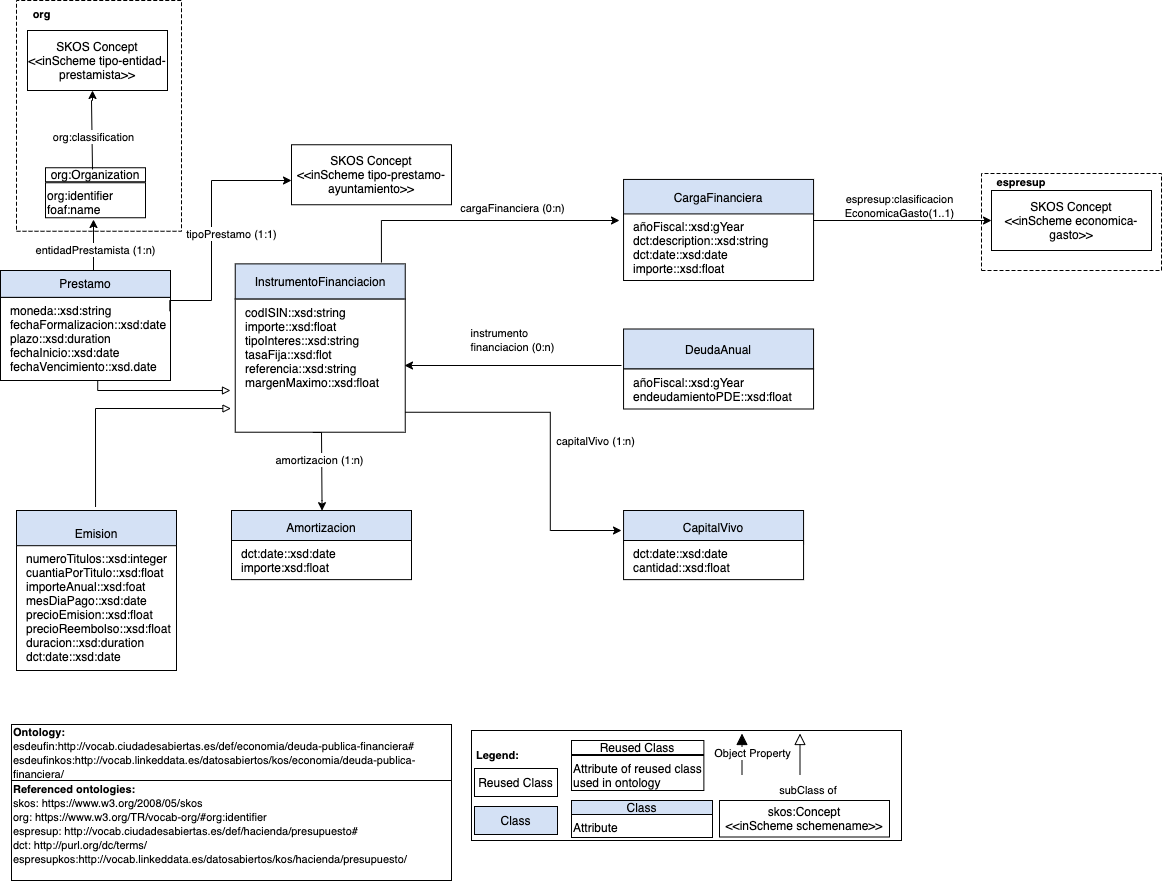
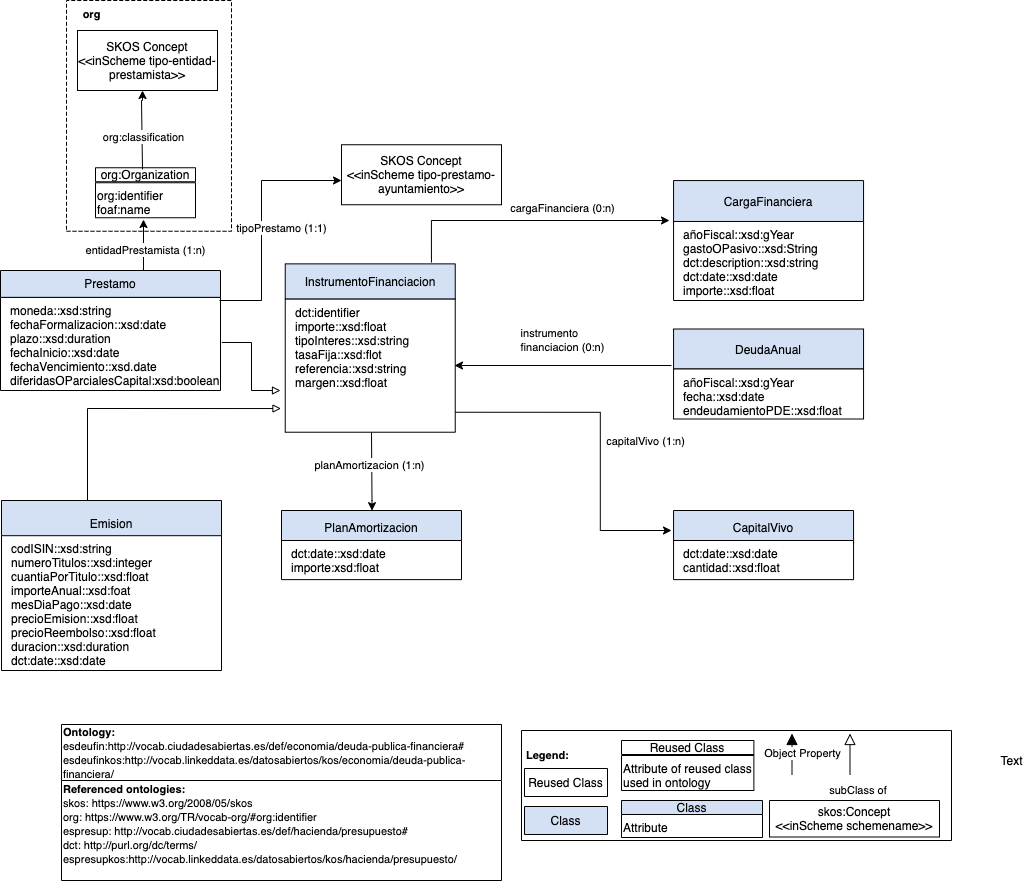
Actualizacion ontología y documentación
Eliminación de la clasificación presupuestaria y se añadió propiedad diferidasOParcialesCapital

diff --git a/OnToology/ontology/deudaPublicaFinanciera.owl/documentation/sections/description-es.html b/OnToology/ontology/deudaPublicaFinanciera.owl/documentation/sections/description-es.html
@@ -6,7 +6,7 @@
   <span class="markdown">
 En este vocabulario se tiene una clase que representa la deuda publica financiera anual [esdeufin:DeudaAnual](#DeudaAnual). Las propiedades se refieren al año fiscal y al total de la deuda por protocolo de dédicit excesivo (PDE). De esta manera se puede representar la deuda de varios años fiscales y así conocer la evolución de la deuda de un ayuntamiento.
       
-La deuda de un año fiscal se relaciona con uno o más [esdeufin:InstrumentoFinanciacion](#InstrumentoFinanciacion) a través de la propiedad [esdeufin:instrumentoFinanciacion](#instrumentoFinanciacion). Un instrumento de financiación tiene propiedades tales como el código, el tipo de interés, la tasa si el interés es fijo y la referencia y el margen máximo si el interés es variable. Un instrumento de financiación puede ser un [esdeufin:Prestamo](#Prestamo) o una [esdeufin:Emision](#Emision). Un préstamo es otorgado  por una entidad prestamista ([esdeufin:entidadPrestamista](#entidadPrestamista)), que se representa utilizando la clase [org:Organization](https://www.w3.org/TR/vocab-org/#org:Organization) de la ontología [Organization](https://www.w3.org/TR/vocab-org/). El préstamo puede ser de un cierto [esdeufin:tipoPrestamo](#tipoPrestamo) tal como bilateral, sindicado, etc y se representa mediante una taxonomía SKOS de [tipo-prestamo](http://vocab.linkeddata.es/datosabiertos/kos/economia/deuda-financiera/tipo-prestamo). La entidad prestamista puede ser de un cierto tipo tal como entidad financiera, diputación, etc. Para ello se ha reusado la propiedad [org:classification](http://www.w3.org/ns/org#Organization) de la ontología de organizaciones, la cual tiene como rango una taxonomia SKOS [tipo-entidad-prestamista](http://vocab.linkeddata.es/datosabiertos/kos/economia/deuda-financiera/tipo-entidad-prestamista). Un instrumento de financiación se relaciona a través de la propiedad [espresup:amortizacion](#amortizacion) con su calendario de amortizaciones que indica la fecha e importe de cada amortización. Un instrumento de financiación tiene un [esdeufin:CapitalVivo](#capitalVivo) que indica a una fecha determinada la cantidad por amortizar. Por último, cada instrumento de financiación tiene una carga financiera [esdeufin:CargaFinanciera](#CargaFinanciera) que a su vez corresponde mediante la propiedad [espresup:clasificacionEconomicaGasto](#http://vocab.ciudadesabiertas.es/def/hacienda/presupuesto#clasificacionEconomicaGasto)  a ciertos conceptos de pasivos financieros o gastos financieros de la clasificación económica de gasto del presupuesto; esta clasificación ha sido representado mediante un SKOS que se encuentra publicado como una clasificación [economica-gasto](http://vocab.linkeddata.es/datosabiertos/kos/hacienda/presupuesto/economica-gasto). 
+La deuda de un año fiscal se relaciona con uno o más [esdeufin:InstrumentoFinanciacion](#InstrumentoFinanciacion) a través de la propiedad [esdeufin:instrumentoFinanciacion](#instrumentoFinanciacion). Un instrumento de financiación tiene propiedades tales como el identificador, el tipo de interés, la tasa si el interés es fijo y la referencia y el margen  si el interés es variable. Un instrumento de financiación puede ser un [esdeufin:Prestamo](#Prestamo) o una [esdeufin:Emision](#Emision). Un préstamo es otorgado  por una o más entidades prestamistas ([esdeufin:entidadPrestamista](#entidadPrestamista)), que se representa utilizando la clase [org:Organization](https://www.w3.org/TR/vocab-org/#org:Organization) de la ontología [Organization](https://www.w3.org/TR/vocab-org/). El préstamo puede ser de un cierto [esdeufin:tipoPrestamo](#tipoPrestamo) tal como bilateral, sindicado, préstamo por algún fondo o una ayuda reintegrable. El tipo de préstamo se representa mediante una taxonomía SKOS de [tipo-prestamo](http://vocab.linkeddata.es/datosabiertos/kos/economia/deuda-financiera/tipo-prestamo). La entidad prestamista puede ser de un cierto tipo tal como entidad financiera, diputación, etc. Para ello se ha reusado la propiedad [org:classification](http://www.w3.org/ns/org#Organization) de la ontología de organizaciones, la cual tiene como rango una taxonomia SKOS [tipo-entidad-prestamista](http://vocab.linkeddata.es/datosabiertos/kos/economia/deuda-financiera/tipo-entidad-prestamista). Un instrumento de financiación se relaciona a través de la propiedad [espresup:planAmortizacion](#planAmortizacion) con su calendario de amortizaciones que indica la fecha e importe de cada amortización. Un instrumento de financiación tiene un [esdeufin:CapitalVivo](#capitalVivo) que indica a una fecha determinada el importe por amortizar. Por último, cada instrumento de financiación puede tener una carga financiera en un año fiscal,[esdeufin:CargaFinanciera](#CargaFinanciera), que puede ser un gasto financiero o un activo financiero. 
 </span>
 
 <h3>3.1 Ejemplos de uso<span class="backlink"> volver a <a href="#toc">&iacute;ndice</a></span></h3>
@@ -29,54 +29,55 @@ La deuda de un año fiscal se relaciona con uno o más [esdeufin:InstrumentoFina
   <pre>
     &lt;http://vocab.ciudadesabiertas.es/recurso/economia/deuda-financiera/prestamo/es1234567893&gt; 
         a esdeufin:Prestamo, esdeufin:InstrumentoFinanciacion;
-        esdeufin:codISIN "ES1234567893"^^xsd:string ;
+        dct:identifier "ES1234567893"^^xsd:string ;
         esdeufin:importe "102000000.00"^^xsd:float ;
         esdeufin:tipoInteres "variable"^^xsd:string ;
         esdeufin:referencia "Euribor 1/3/6 meses"^^xsd:string ;
-        esdeufin:margenMaximo "0.015"^^xsd:float ;
+        esdeufin:margen "0.015"^^xsd:float ;
         esdeufin:moneda "euro"^^xsd:string ;
         esdeufin:fechaFormalizacion "2006-12-14"^^xsd:date ;
         esdeufin:plazo "P16Y"^^xsd:duration ;
+        esdeufin:diferidasOParcialesCapital "false"^^xsd:boolean;
         esdeuFin:fechaVencimiento "2022-12-14"^^xsd:date ;
         esdeufin:tipoPrestamo &lt;http://vocab.linkeddata.es/datosabiertos/kos/economia/deuda-publica/tipo-prestamo/bilateral&gt;;
         esdeufin:entidadPrestamista &lt;http://vocab.ciudadesabiertas.es/recurso/economia/deuda-financiera/entidad-prestamista/q2876002c&gt;;
-        esdeufin:amortizacion &lt;http://vocab.ciudadesabiertas.es/recurso/economia/deuda-financiera/amortizacion/ES1234567893-c1&gt;;
-        esdeufin:amortizacion &lt;http://vocab.ciudadesabiertas.es/recurso/economia/deuda-financiera/amortizacion/ES1234567893-c2&gt;;
-        esdeufin:amortizacion &lt;http://vocab.ciudadesabiertas.es/recurso/economia/deuda-financiera/amortizacion/ES1234567893-c3&gt;.
+        esdeufin:planAmortizacion &lt;http://vocab.ciudadesabiertas.es/recurso/economia/deuda-financiera/plan-amortizacion/es1234567893-c1&gt;;
+        esdeufin:planAmortizacion &lt;http://vocab.ciudadesabiertas.es/recurso/economia/deuda-financiera/plan-amortizacion/es1234567893-c2&gt;;
+        esdeufin:planAmortizacion &lt;http://vocab.ciudadesabiertas.es/recurso/economia/deuda-financiera/plan-amortizacion/es1234567893-c3&gt;.
         
-    &lt;http://vocab.ciudadesabiertas.es/recurso/economia/deuda-financiera/amortizacion/ES1234567893-c1&gt;
-        a esdeufin:Amortizacion;
+    &lt;http://vocab.ciudadesabiertas.es/recurso/economia/deuda-financiera/amortizacion/es1234567893-c1&gt;
+        a esdeufin:PlanAmortizacion;
         dct:date "2016-12-14"^^xsd:date ;
         esdeufin:importe "39000000.00^^xsd:float.
-    &lt;http://vocab.ciudadesabiertas.es/recurso/economia/deuda-financiera/amortizacion/ES1234567893-c2&gt;
-        a esdeufin:Amortizacion;
+    &lt;http://vocab.ciudadesabiertas.es/recurso/economia/deuda-financiera/amortizacion/es1234567893-c2&gt;
+        a esdeufin:PlanAmortizacion;
         dct:date "2019-12-14"^^xsd:date ;
         esdeufin:importe "39000000.00^^xsd:float.
-    &lt;http://vocab.ciudadesabiertas.es/recurso/economia/deuda-financiera/amortizacion/ES1234567893-c3&gt;
-        a esdeufin:Amortizacion;
+    &lt;http://vocab.ciudadesabiertas.es/recurso/economia/deuda-financiera/amortizacion/es1234567893-c3&gt;
+        a esdeufin:PlanAmortizacion;
         dct:date "2022-12-14"^^xsd:date ;
         esdeufin:importe "24000000.00^^xsd:float.
   </pre>
 <span class="markdown">
-Para este préstamo se ejemplifica la carga financiera del año 2017 con dos pagos realizados ese año, corresponden al pago de intereses (concepto 310 de la clasificación económica de gasto). 
+Para este préstamo se ejemplifica dos gastos financieros del año 2017 que corresponden al pago de intereses. 
 </span>
 <pre>
     &lt;http://vocab.ciudadesabiertas.es/recurso/economia/deuda-financiera/prestamo/es1234567893&gt; 
-        esdeufin:cargaFinanciera &lt;http://vocab.ciudadesabiertas.es/recurso/economia/deuda-financiera/carga-financiera/2018-es1234567893-001&gt; ;
-        esdeufin:cargaFinanciera &lt;http://vocab.ciudadesabiertas.es/recurso/economia/deuda-financiera/carga-financiera/2018-es1234567893-002&gt; ;
+        esdeufin:cargaFinanciera &lt;http://vocab.ciudadesabiertas.es/recurso/economia/deuda-financiera/carga-financiera/2017-06-21-es1234567893&gt; ;
+        esdeufin:cargaFinanciera &lt;http://vocab.ciudadesabiertas.es/recurso/economia/deuda-financiera/carga-financiera/2017-12-21-es1234567893&gt; ;
         esdeufin:capitalVivo &lt;http://vocab.ciudadesabiertas.es/recurso/economia/deuda-financiera/capital-vivo/2020-06-30-es1234567893&gt; .
-    &lt;http://vocab.ciudadesabiertas.es/recurso/economia/deuda-financiera/carga-financiera/2018-es1234567893-001&gt;
+    &lt;http://vocab.ciudadesabiertas.es/recurso/economia/deuda-financiera/carga-financiera/2017-06-21-es1234567893&gt;
         esdeufin:anioFiscal "2017"^xsd:gYear ;
+        esdeufin:gastoOPasivoFinanciero "gasto financiero"^^xsd:string ;
         dct:description "AMORT.VTO.21/06/17 PTM L/P MDEC-I.C.O.(20,77MM)'06 (2017)"^^xsd:string ;
         dct:date "2017-06-21"^^xsd:date ;
-        esdeufin:importe "692332.00"^^xsd:float;
-        espresup:clasificacionEconomicaGasto &lt;http://vocab.linkeddata.es/datosabiertos/kos/hacienda/presupuesto/economica-gasto/310&gt; .
-    &lt;http://vocab.ciudadesabiertas.es/recurso/economia/deuda-financiera/carga-financiera/2018-es1234567893-002&gt;
+        esdeufin:importe "692332.00"^^xsd:float.
+    &lt;http://vocab.ciudadesabiertas.es/recurso/economia/deuda-financiera/carga-financiera/2017-12-21-es1234567893&gt;
         esdeufin:anioFiscal "2017"^xsd:gYear ;
+        esdeufin:gastoOPasivoFinanciero "gasto financiero"^^xsd:string ;
         dct:description "AMORT.VTO.21/12/17 PTM L/P MDEC-I.C.O.(20,77MM)'06 (2017)"^^xsd:string ;
         dct:date "2017-12-21"^^xsd:date ;
         esdeufin:importe "692332.00"^^xsd:float.
-        espresup:clasificacionEconomicaGasto &lt;http://vocab.linkeddata.es/datosabiertos/kos/hacienda/presupuesto/economica-gasto/310&gt; .
 </pre>
 <span class="markdown">
 Además se tiene que el capital vivo de este préstamo al 30/6/2020 es de 24.000.000 de euros.
@@ -93,7 +94,7 @@ La entidad prestamista tiene como identificador "Q2876002C" y su nombre es Insti
     &lt;http://vocab.ciudadesabiertas.es/recurso/economia/deuda-financiera/entidad-prestamista/q2876002c&gt;
         a org:Organization;
         org:identifier "Q2876002C"^^xsd:string ;
-        org:name "Instituto de CréditoOficial (ICO)^^xsd:string ;
+        org:name "Instituto de Crédito Oficial (ICO)^^xsd:string ;
         org:classification &lt;http://vocab.linkeddata.es/datosabiertos/kos/economia/deuda-publica/tipo-entidad-prestamista/suscripcion-publica&gt;.
 </pre>
 <span class="markdown">
@@ -115,7 +116,7 @@ A continuación se presenta un ejemplo de una emisión en donde el código ISIN 
         esdeufin:duracion "P30Y"^^xsd:duration ;
         esdeufin:amortizacion &lt;http://vocab.ciudadesabiertas.es/recurso/economia/deuda-financiera/amortizacion/ES0201001148-c1&gt; .
         
-    &lt;http://vocab.ciudadesabiertas.es/recurso/economia/deuda-financiera/amortizacion/ES0201001148-c1&gt;
+    &lt;http://vocab.ciudadesabiertas.es/recurso/economia/deuda-financiera/amortizacion/es0201001148-c1&gt;
         a esdeufin:Amortizacion;
         dct:date "2036-06-16"^^xsd:date ;
         esdeufin:importe "300000000.00^^xsd:float.

diff --git a/OnToology/ontology/deudaPublicaFinanciera.owl/documentation/sections/introduction-es.html b/OnToology/ontology/deudaPublicaFinanciera.owl/documentation/sections/introduction-es.html
@@ -1,5 +1,5 @@
 <h2 id="intro" class="list">Introducci&oacute;n <span class="backlink"> volver a <a href="#toc">&iacute;ndice</a></span></h2>
-<span class="markdown">La Deuda Pùblica de un Ayuntamiento se compone de la Deuda Pública Financiera y de la Deuda Pública Comercial. Este vocabulario representa los datos de la Deuda Pública Financiera. El vocabulario de la Deuda Pública comercial puede ser consultado en https://preview.ciudadesabiertas.linkeddata.es/deuda-publica-comercial/
+<span class="markdown">La Deuda Pùblica de un Ayuntamiento se compone de la Deuda Pública Financiera y de la Deuda Pública Comercial. Este vocabulario representa los datos de la Deuda Pública Financiera. El vocabulario de la Deuda Pública comercial puede ser consultado en http://vocab.ciudadesabiertas.es/def/economia/deuda-publica-comercial/index-es.html.
     
 La deuda pública de un Ayuntamiento es uno de los indicadores esenciales de las cuentas públicas para entender el estado de la situación económica de ayuntamiento. En términos macroeconómicos es también un factor condicionante para el gasto, el ahorro, la inversión pública y la propia política económica. La deuda pública es determinante para, por ejemplo, la elaboración de los presupuestos. Asimismo, el nivel de endeudamiento del sector público está determinado por el techo del gasto establecido según la Ley Orgánica 2/2012, de 27 de abril, de Estabilidad Presupuestaria y Sostenibilidad Financiera (LOEPSF) . En concreto, para las entidades locales se tiene el Real Decreto-ley 17/2014 , de 26 de diciembre, de medidas de sostenibilidad financiera de las comunidades autónomas y entidades locales y otras de carácter económico. En esta normativa se definen varios objetivos relacionados con la estabilidad presupuestaria, siendo el más relevante el garantizar la estabilidad presupuestaria y la sostenibilidad financiera de todas las Administraciones Públicas, lo cual conlleva a que todos los niveles de las Administraciones Públicas estén obligados al cumplimiento de la LOEPSF.
     
@@ -11,18 +11,16 @@ La deuda publica financiera anual refleja el total de la deuda por préstamos, e
 <table>
 <caption> <a href="#ns"> Tabla 1</a>: Namespaces utilizados en el documento </caption>
 <tbody>
-<tr><td><b>org</b></td><td>&lt;http://www.w3.org/ns/org&gt;</td></tr>
-<tr><td><b>owl</b></td><td>&lt;http://www.w3.org/2002/07/owl&gt;</td></tr>
-<tr><td><b>xsd</b></td><td>&lt;http://www.w3.org/2001/XMLSchema&gt;</td></tr>
-<tr><td><b>skos</b></td><td>&lt;http://www.w3.org/2004/02/skos/core&gt;</td></tr>
-<tr><td><b>rdfs</b></td><td>&lt;http://www.w3.org/2000/01/rdf-schema&gt;</td></tr>
-<tr><td><b>foaf</b></td><td>&lt;http://xmlns.com/foaf/0.1&gt;</td></tr>
+<tr><td><b>org</b></td><td>&lt;http://www.w3.org/ns/org#&gt;</td></tr>
+<tr><td><b>owl</b></td><td>&lt;http://www.w3.org/2002/07/owl#&gt;</td></tr>
+<tr><td><b>xsd</b></td><td>&lt;http://www.w3.org/2001/XMLSchema#&gt;</td></tr>
+<tr><td><b>skos</b></td><td>&lt;http://www.w3.org/2004/02/skos/core#&gt;</td></tr>
+<tr><td><b>rdfs</b></td><td>&lt;http://www.w3.org/2000/01/rdf-schema#&gt;</td></tr>
+<tr><td><b>foaf</b></td><td>&lt;http://xmlns.com/foaf/0.1/&gt;</td></tr>
 <tr><td><b>esdeufin</b></td><td>&lt;http://vocab.ciudadesabiertas.es/def/economia/deuda-publica-financiera#&gt;</td></tr>
-<tr><td><b>esdeufinkos</b></td><td>&lt;http://vocab.linkeddata.es/datosabiertos/kos/economia/deuda-financiera/&gt;</td></tr>
-<tr><td><b>espresupkos</b></td><td>&lt;http://vocab.linkeddata.es/datosabiertos/kos/hacienda/presupuesto/&gt;</td></tr>
-<tr><td><b>rdf</b></td><td>&lt;http://www.w3.org/1999/02/22-rdf-syntax-ns&gt;</td></tr>
-<tr><td><b>dct</b></td><td>&lt;http://purl.org/dc/terms&gt;</td></tr>
-<tr><td><b>espresup</b></td><td>&lt;http://vocab.ciudadesabiertas.es/def/hacienda/presupuesto#&gt;</td></tr>  
+<tr><td><b>esdeufinkos</b></td><td>&lt;http://vocab.linkeddata.es/datosabiertos/kos/economia/deuda-publica-financiera/&gt;</td></tr>
+<tr><td><b>rdf</b></td><td>&lt;http://www.w3.org/1999/02/22-rdf-syntax-ns#&gt;</td></tr>
+<tr><td><b>dct</b></td><td>&lt;http://purl.org/dc/terms/&gt;</td></tr> 
 </tbody>
 </table>
 </div>
